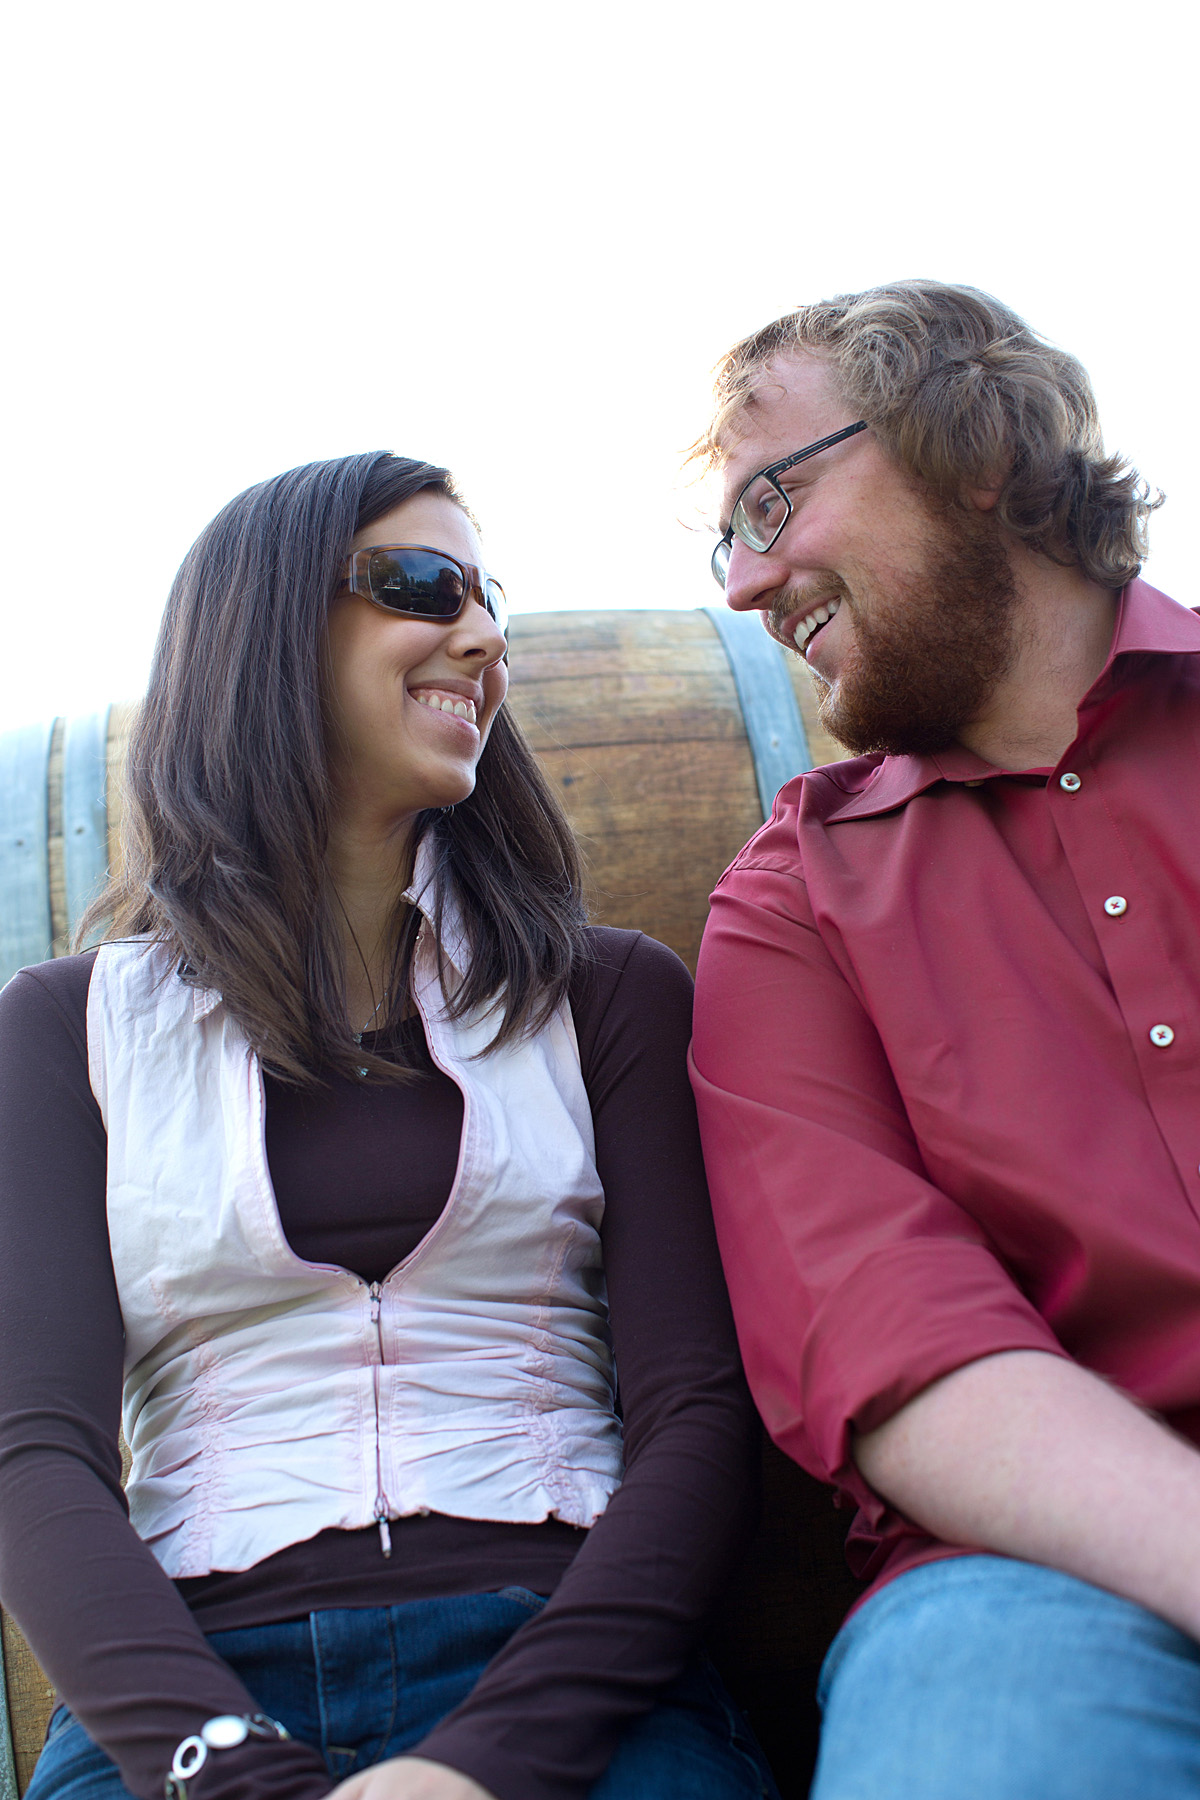
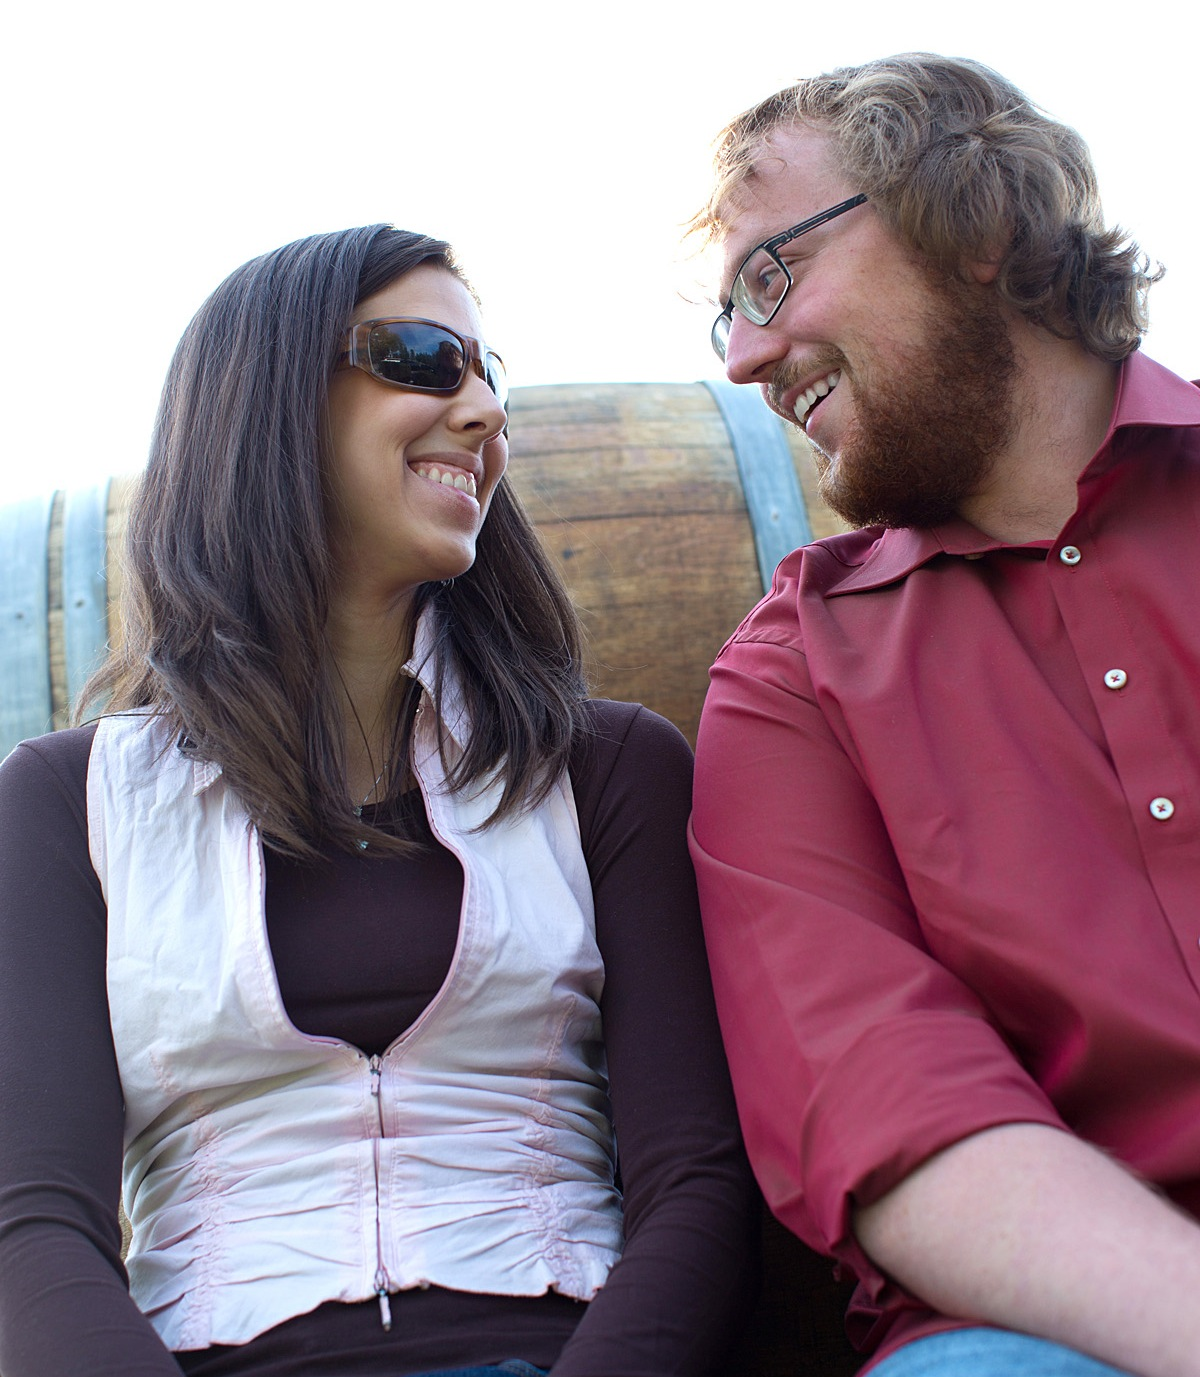
added pics to details and venue page - still need to implement submit for rsvp

diff --git a/public/js/customScripts.js b/public/js/customScripts.js
@@ -1,3 +1,8 @@
+//TODO: 
+//1. add error checking
+//2. if they choose 'definitely' indicate they need to enter guest info
+//3. add db connections
+//4. make db match current setup
 $(document).ready(function(){
 	$('.carousel').carousel('cycle');
 	

diff --git a/public/css/customStyle.css b/public/css/customStyle.css
@@ -7,3 +7,13 @@
 input.input-auto {
 	width:auto;
 }
+img.venue, img.details {
+	-webkit-border-radius: 6px;
+	-moz-border-radius: 6px;
+	border-radius: 6px;
+	border-style: solid;
+	border-width: 3px;
+}
+img.venue {
+	margin-top: 20px;
+}
